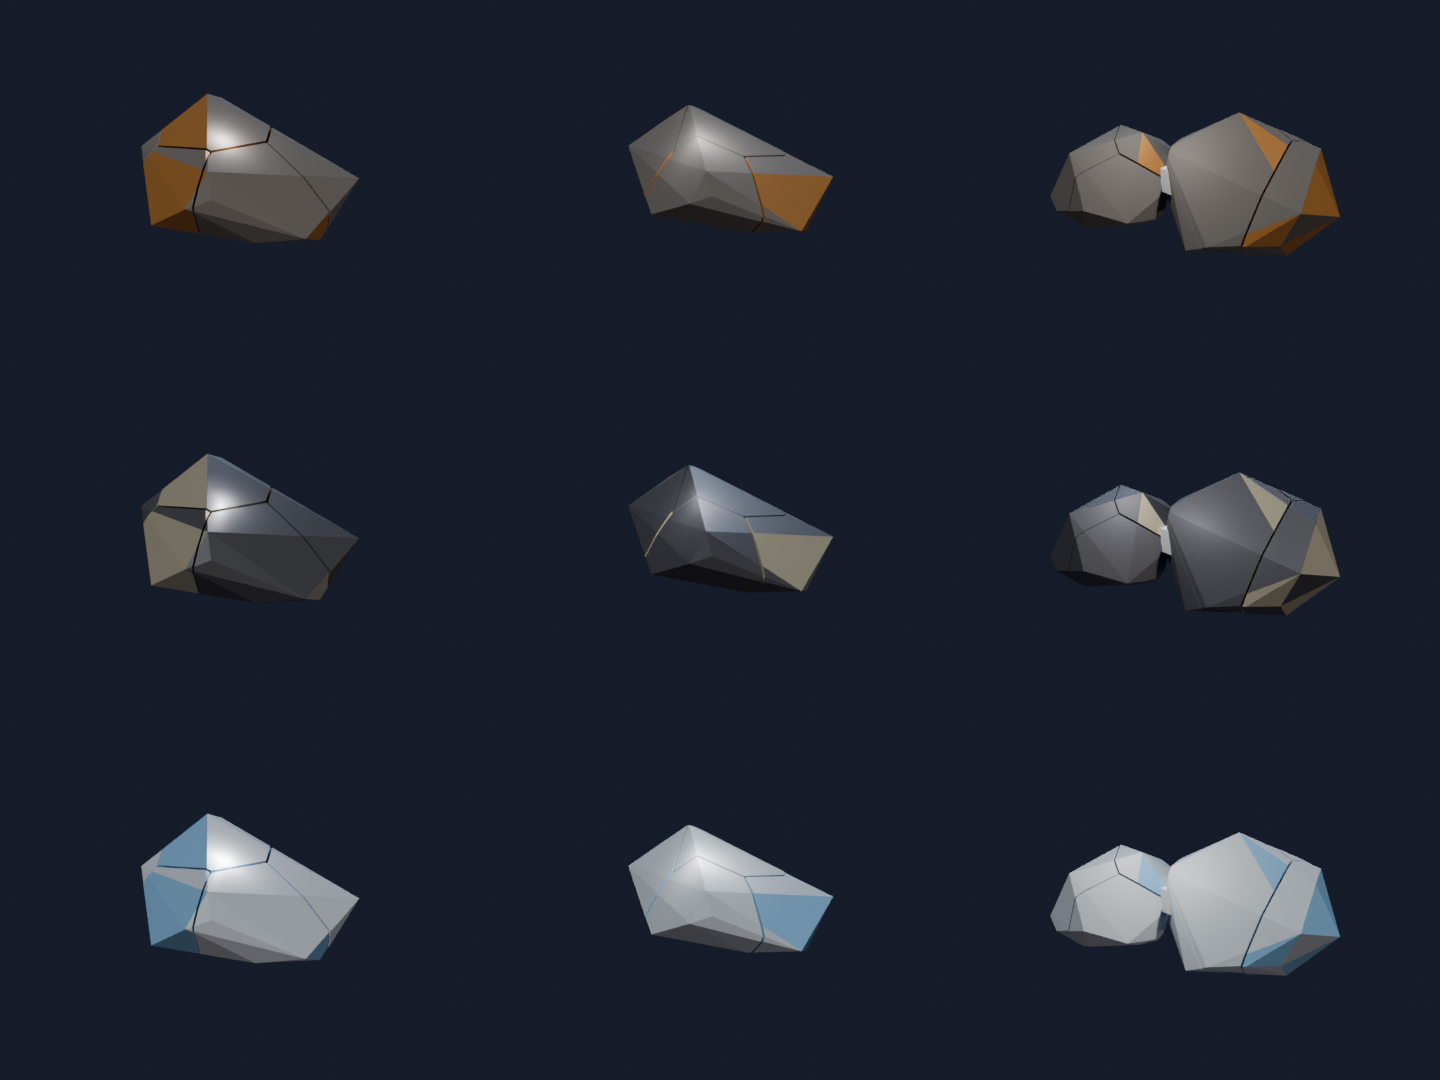
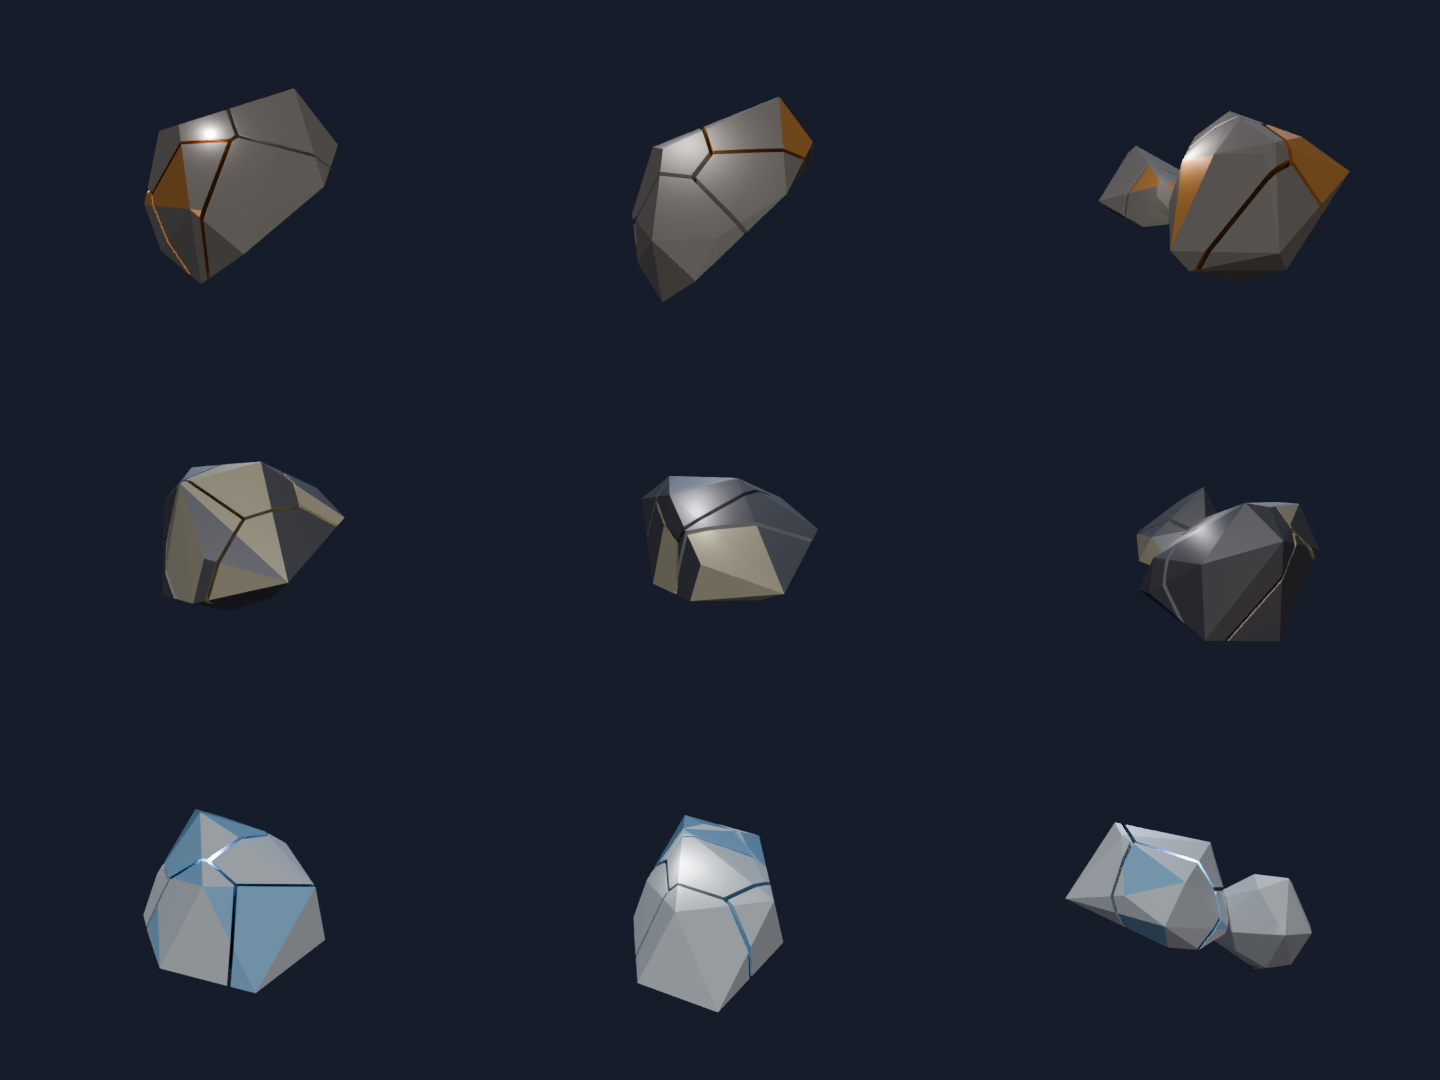
Asteroids: constant-width cracks, cracks tagged on both sides, shape per composition
- cracks: only the break faces move in by half a crack width (gap x size_m / 2); the rock
  surface stays put. Scaling every chunk about its centre shrank big chunks far more than
  small ones, so small chunks seemed to stick out and showed their light break faces.
- break faces are now recognised on both sides of a fracture plane (one side was missed)
- the composition is part of the seed stream, so ore/metal/ice of one seed differ in shape
- convexity test: the mesh must equal its own convex hull (sliver normals are too noisy)
- variant sheets per composition in docs/asteroids/

Claude-Session: https://claude.ai/code/session_0189xRjiiTMx3apXWGHbTKDT

diff --git a/shipgen/asteroids/__init__.py b/shipgen/asteroids/__init__.py
@@ -60,7 +60,7 @@ INHERIT_RICH = 0.85  # a rich chunk's pieces stay rich with this chance
 class Chunk:
     name: str
     level: int
-    points: list  # vertices of the convex chunk before shrinking (world space)
+    points: list  # vertices of the convex chunk before its cracks are cut (world space)
     rich: bool
     children: list["Chunk"] = field(default_factory=list)
     obj: object = None
@@ -131,7 +131,7 @@ def _base_pieces(p, rng) -> list[list[Vector]]:
 
 def _fracture(p, levels: int) -> tuple[list[Chunk], list[tuple[Vector, float]]]:
     """Chunk tree + every fracture plane (break faces lie on one of them)."""
-    rng = random.Random(f"{p['seed']}:asteroid")
+    rng = random.Random(f"{p['seed']}:{p['composition']}:asteroid")
     pieces = _base_pieces(p, rng)
     fractures: list[tuple[Vector, float]] = []
     total = sum(geo.volume(pc) for pc in pieces)
@@ -191,10 +191,13 @@ def _materials(comp: str) -> dict:
     return out
 
 
-def _on_fracture(face, fractures, tol: float) -> bool:
-    n = face.normal
-    d = n.dot(face.verts[0].co)
-    return any(n.dot(fn) > 0.9999 and abs(d - fd) < tol for fn, fd in fractures)
+def _on_fracture(n: Vector, d: float, fractures, tol: float, inset: float = 0.0) -> bool:
+    """Does the plane (n, d) lie on a fracture plane (either side of it), moved ``inset`` inwards?"""
+    for fn, fd in fractures:
+        k = n.dot(fn)
+        if abs(k) > 0.9999 and abs(d - (fd if k > 0 else -fd) + inset) < tol:
+            return True
+    return False
 
 
 def _build_objects(p, tree: list[Chunk], fractures) -> Asteroid:
@@ -208,18 +211,26 @@ def _build_objects(p, tree: list[Chunk], fractures) -> Asteroid:
     tol = 1e-4 * p["size_m"]
     chunks = list(_walk(tree))
 
+    crack = 0.5 * p["gap"] * p["size_m"]
+
     def make(chunk: Chunk, parent, parent_c: Vector) -> None:
-        bm = geo.hull_bmesh(chunk.points)
+        # cracks of constant width: only the break faces move in (half a crack each), the rock
+        # surface stays where it is, so small chunks never stick out of big shrunk ones
+        inset = min(0.5 * crack, 0.1 * geo.diameter(chunk.points))
+        pts = chunk.points
+        for n, d in geo.planes(chunk.points):
+            if _on_fracture(n, d, fractures, tol):
+                pts = geo.clip(pts, n, d - inset)
+        bm = geo.hull_bmesh(pts)
         rng = random.Random(f"{p['seed']}:vein:{chunk.name}")
         for f in bm.faces:
-            if _on_fracture(f, fractures, tol):
+            if _on_fracture(f.normal, f.normal.dot(f.calc_center_median()), fractures, tol, inset):
                 f.material_index = 2 if chunk.rich else 1
             else:
                 f.material_index = 2 if chunk.rich and rng.random() < VEIN_SHARE else 0
         c = geo.centroid([v.co for v in bm.verts])
-        shrink = 1.0 - p["gap"]  # cracks between neighbours
         for v in bm.verts:
-            v.co = (v.co - c) * shrink
+            v.co -= c
         mesh = bpy.data.meshes.new(chunk.name)
         bm.to_mesh(mesh)
         bm.free()

diff --git a/tests/test_asteroids.py b/tests/test_asteroids.py
@@ -28,9 +28,13 @@ class AsteroidTest(unittest.TestCase):
         bmesh.ops.recalc_face_normals(bm, faces=bm.faces)
         closed = all(e.is_manifold for e in bm.edges)
         degenerate = any(f.calc_area() <= 1e-9 for f in bm.faces)
-        eps = 1e-3 * max(obj.dimensions)  # merged facets are planar to ~1e-4 of the chunk size
-        convex = all(f.normal.dot(v.co - f.calc_center_median()) <= eps for f in bm.faces for v in bm.verts)
         vol = abs(bm.calc_volume())
+        # convex = the mesh is its own convex hull (what Godot builds from the vertices); face
+        # normals of thin slivers are too noisy to test against
+        hull = bmesh.new()
+        bmesh.ops.convex_hull(hull, input=[hull.verts.new(v.co) for v in bm.verts])
+        convex = abs(abs(hull.calc_volume()) - vol) <= 1e-3 * max(vol, 1e-9)
+        hull.free()
         bm.free()
         return closed, degenerate, convex, vol
 

diff --git a/shipgen/asteroids/params.py b/shipgen/asteroids/params.py
@@ -21,7 +21,7 @@ SCHEMA: dict[str, Any] = {
     "min_chunk_m": Field(float, 4.0, 0.5, 100.0, description="Chunks smaller than about twice this don't break further"),
     "max_levels": Field(int, 4, 1, 6, description="Break levels prepared in advance"),
     "richness": Field(float, 0.6, 0.0, 1.0, description="Share of chunks that carry the resource (rest is plain rock)"),
-    "gap": Field(float, 0.03, 0.0, 0.15, description="Crack width between chunks, relative to the chunk size"),
+    "gap": Field(float, 0.03, 0.0, 0.15, description="Crack width between chunks: gap x size_m / 2"),
     "max_tris": Field(int, 30000, 500, 500000, description="Triangle budget for all levels together"),
 }
 
